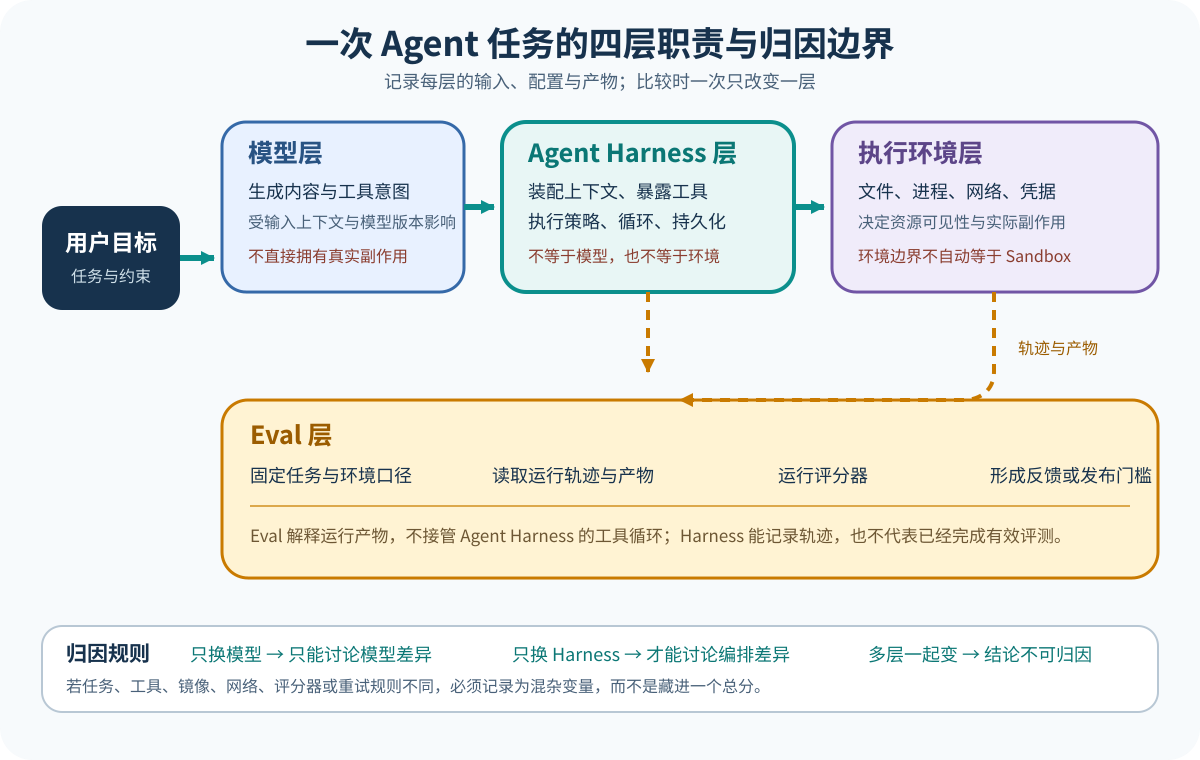
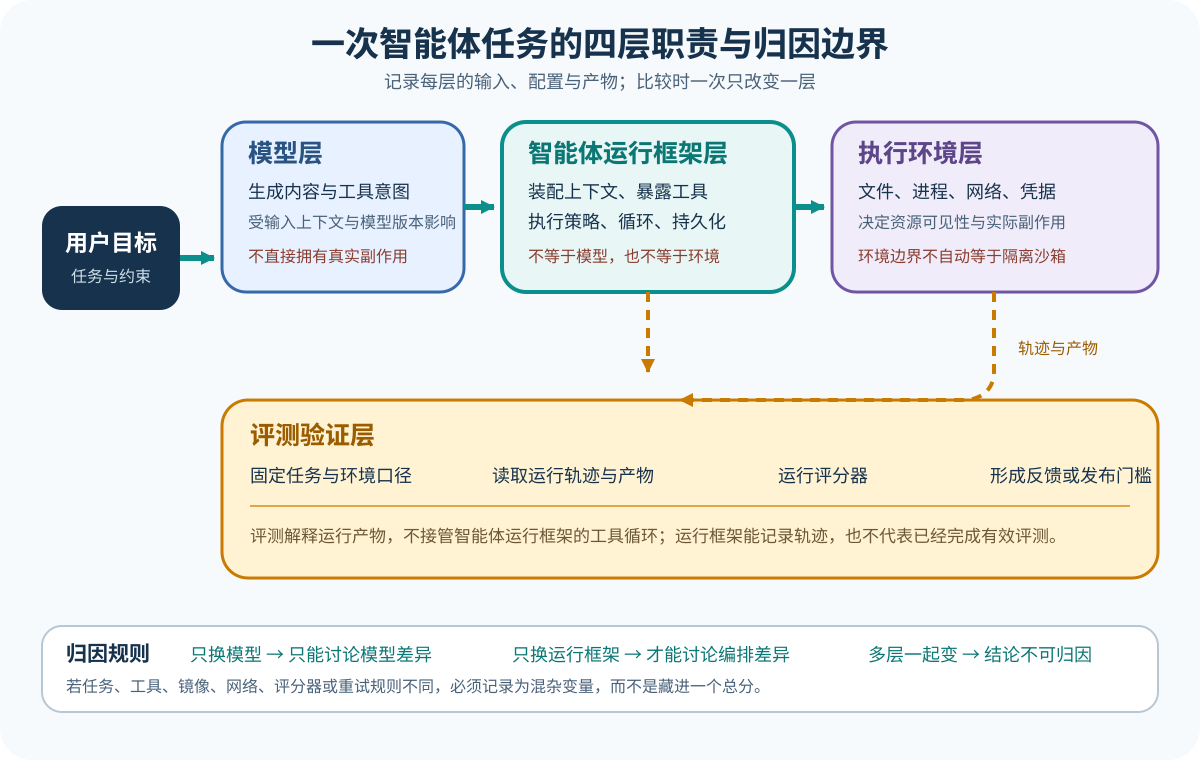
chore(review): 完成阶段 2 共同基础复核

diff --git a/specs/2026-08-23-phase-2-foundations-implementation-plan.md b/specs/2026-08-23-phase-2-foundations-implementation-plan.md
@@ -191,13 +191,13 @@
 - 新建：`evidence/reviews/2026-08-23-phase-2-foundations.yml`
 - 修改：`specs/2026-08-23-agent-harness-internals-program-plan.md`
 
-- [ ] 从已提交基线运行 Node 24 聚合检查和全部来源验证。
-- [ ] 逐篇审计解释深度、最小例子、Claim、限定条件、自检答案、链接和中文图示。
-- [ ] 打开六张正式图，检查窄屏、深浅背景、文字截断、箭头、字体和颜色依赖。
-- [ ] 主动寻找：把单个项目外推成通则、模型与 Harness 混淆、权限与隔离混淆、Session 与 Context 混淆、Trial 分母漂移、Feedback 与发布评测混淆。
-- [ ] 修复全部高严重度发现；中低风险明确记录后续去向。
-- [ ] 复核通过后勾选总路线阶段 2，并在提交后重跑聚合检查。
-- [ ] 提交：`chore(review): 完成阶段 2 共同基础复核`。
+- [x] 从已提交基线运行 Node 24 聚合检查和全部来源验证。
+- [x] 逐篇审计解释深度、最小例子、Claim、限定条件、自检答案、链接和中文图示。
+- [x] 打开六张正式图，检查窄屏、深浅背景、文字截断、箭头、字体和颜色依赖。
+- [x] 主动寻找：把单个项目外推成通则、模型与 Harness 混淆、权限与隔离混淆、Session 与 Context 混淆、Trial 分母漂移、Feedback 与发布评测混淆。
+- [x] 修复全部高严重度发现；中低风险明确记录后续去向。
+- [x] 复核通过后勾选总路线阶段 2，并在提交后重跑聚合检查。
+- [x] 提交：`chore(review): 完成阶段 2 共同基础复核`。
 
 ## 阶段完成证据
 

diff --git a/specs/2026-08-23-agent-harness-internals-program-plan.md b/specs/2026-08-23-agent-harness-internals-program-plan.md
@@ -14,7 +14,7 @@
 - [x] 阶段 1：品牌、Logo、中文视觉、README 和 GitHub 对外信息。
   - 计划：`specs/2026-08-23-phase-1-brand-entry-implementation-plan.md`
   - 验收：三个 Logo 方向完成渲染比较，最佳方案及 Social preview 发布，入口不夸大完成度。
-- [ ] 阶段 2：共同基础课程。
+- [x] 阶段 2：共同基础课程。
   - 计划：`specs/2026-08-23-phase-2-foundations-implementation-plan.md`
   - 验收：六篇基础课程达到 `reviewed`，图示、证据、中文和内容门禁通过。
 - [ ] 阶段 3A：DeepSeek Harness 主线。
